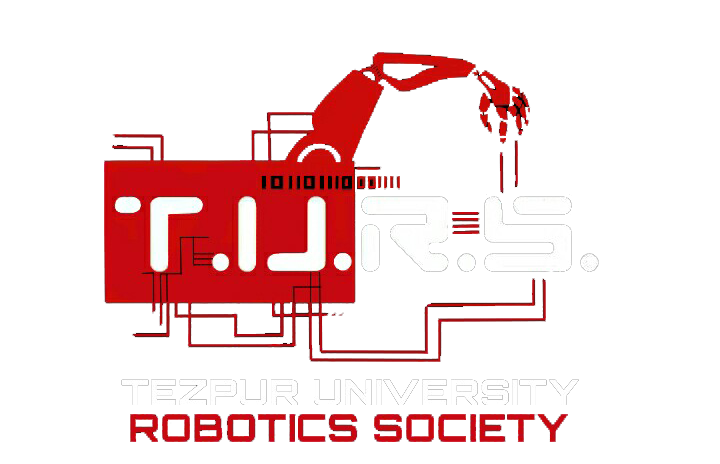
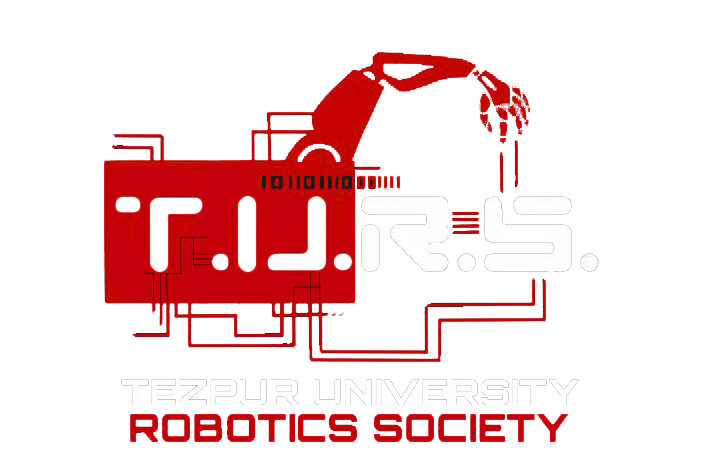
Changed 2nd layer background and added landing animation

diff --git a/css/style.css b/css/style.css
@@ -92,15 +92,13 @@
 
 /*layer1 begins*/
 #land_img{
-	width: 50%;
+	width: 45%;
 	height: auto;
-  margin-top: 4%;
-  margin-left: 25%;
-  margin-bottom: 10%;
-  padding: 100px;
+  margin-top: 10%;
+  margin-left: 28%;
 }
 .layer1bg{
-  background-color: rgb(250, 246, 0);
+  background-image: linear-gradient(-120deg, #ff5858 0%, #f09819 100%);
 }
 .layer1{
   position: relative;
@@ -120,43 +118,51 @@
 #land_text{
   text-align: center;
   padding-top: 0;
-  font-size: 40px;
+  font-size: 50px;
   letter-spacing: 8px;
-  margin-top: -13%;
+  margin-top: 3%;
 }
 
 #land_text2{
   text-align: center;
   font-size: 20px;
 }
+#ani2{
+  -webkit-animation-delay: 0.75s;
+  -moz-animation-delay: 0.75s;
+}
+#ani3{
+  -webkit-animation-delay: 1.5s;
+  -moz-animation-delay: 1.5s;
+}
 .btn-lg{
   display: table;
   margin: 0px auto;
   margin-top: 3%;
-  background: #EF5607;
-  border: 1px solid #EF5607;
+  background: #C4000D;
+  border: 1px solid #C4000D;
   width: 10%;
   border-radius: 0%; 
   color: white;
 }
 .btn-lg:hover{
-  background: #EF5607;
-  border: 1px solid #EF5607;
+  background: #ad000b;
+  border: 1px solid #ad000b;
 }
 /*layer1 ends*/
 
 /*layer2 begins*/
 .layer2bg{
-  background: rgb(250, 246, 0);
+  background-image: linear-gradient(-60deg, #ff5858 0%, #f09819 100%);
 }
 .layer2{
   position: relative;
-  background-color: rgb(250, 246, 0);
+  background-image: linear-gradient(-60deg, #ff5858 0%, #f09819 100%);
   height: 100vh;
-  color: rgb(12, 11, 11);
+  color: white;
   font-family: 'Josefin Sans', sans-serif;
   font-weight: bolder;
-  font-size: 30%;
+  font-size: 40%;
   clip-path: polygon(
     0 -10%,
     100% 10%,

diff --git a/index.html b/index.html
@@ -64,7 +64,7 @@
             <div class="container">
                 <img id="land_img" src="./img/TURS.png">
             </div>
-            <h1 id="land_text">BUILD. <strong>CREATE.</strong> LEARN.</h1>
+            <h1 id="land_text"><span class="animated fadeIn">BUILD. </span><strong class="animated fadeIn" id="ani2">CREATE.</strong> <span class="animated fadeIn" id="ani3">LEARN.</span></h1>
             <h3 id="land_text2">Tezpur University's student led robotics club aimed at creating waves in the field of robotics.</h3>
             <button type="button" class="btn btn-primary btn-lg animated">Explore</button>
         </div>
@@ -74,7 +74,7 @@
     <!-- layer2 begins here -->
     <div class="layer2bg">
         <div id="about" class="layer2">
-            <h1 class="main-text" style="color: white">What do we do?</h1>
+            <h1 class="main-text" style="color: white">ABOUT T.U.R.S.</h1>
 
             <div class="container animated layer2text">
                 <p>
